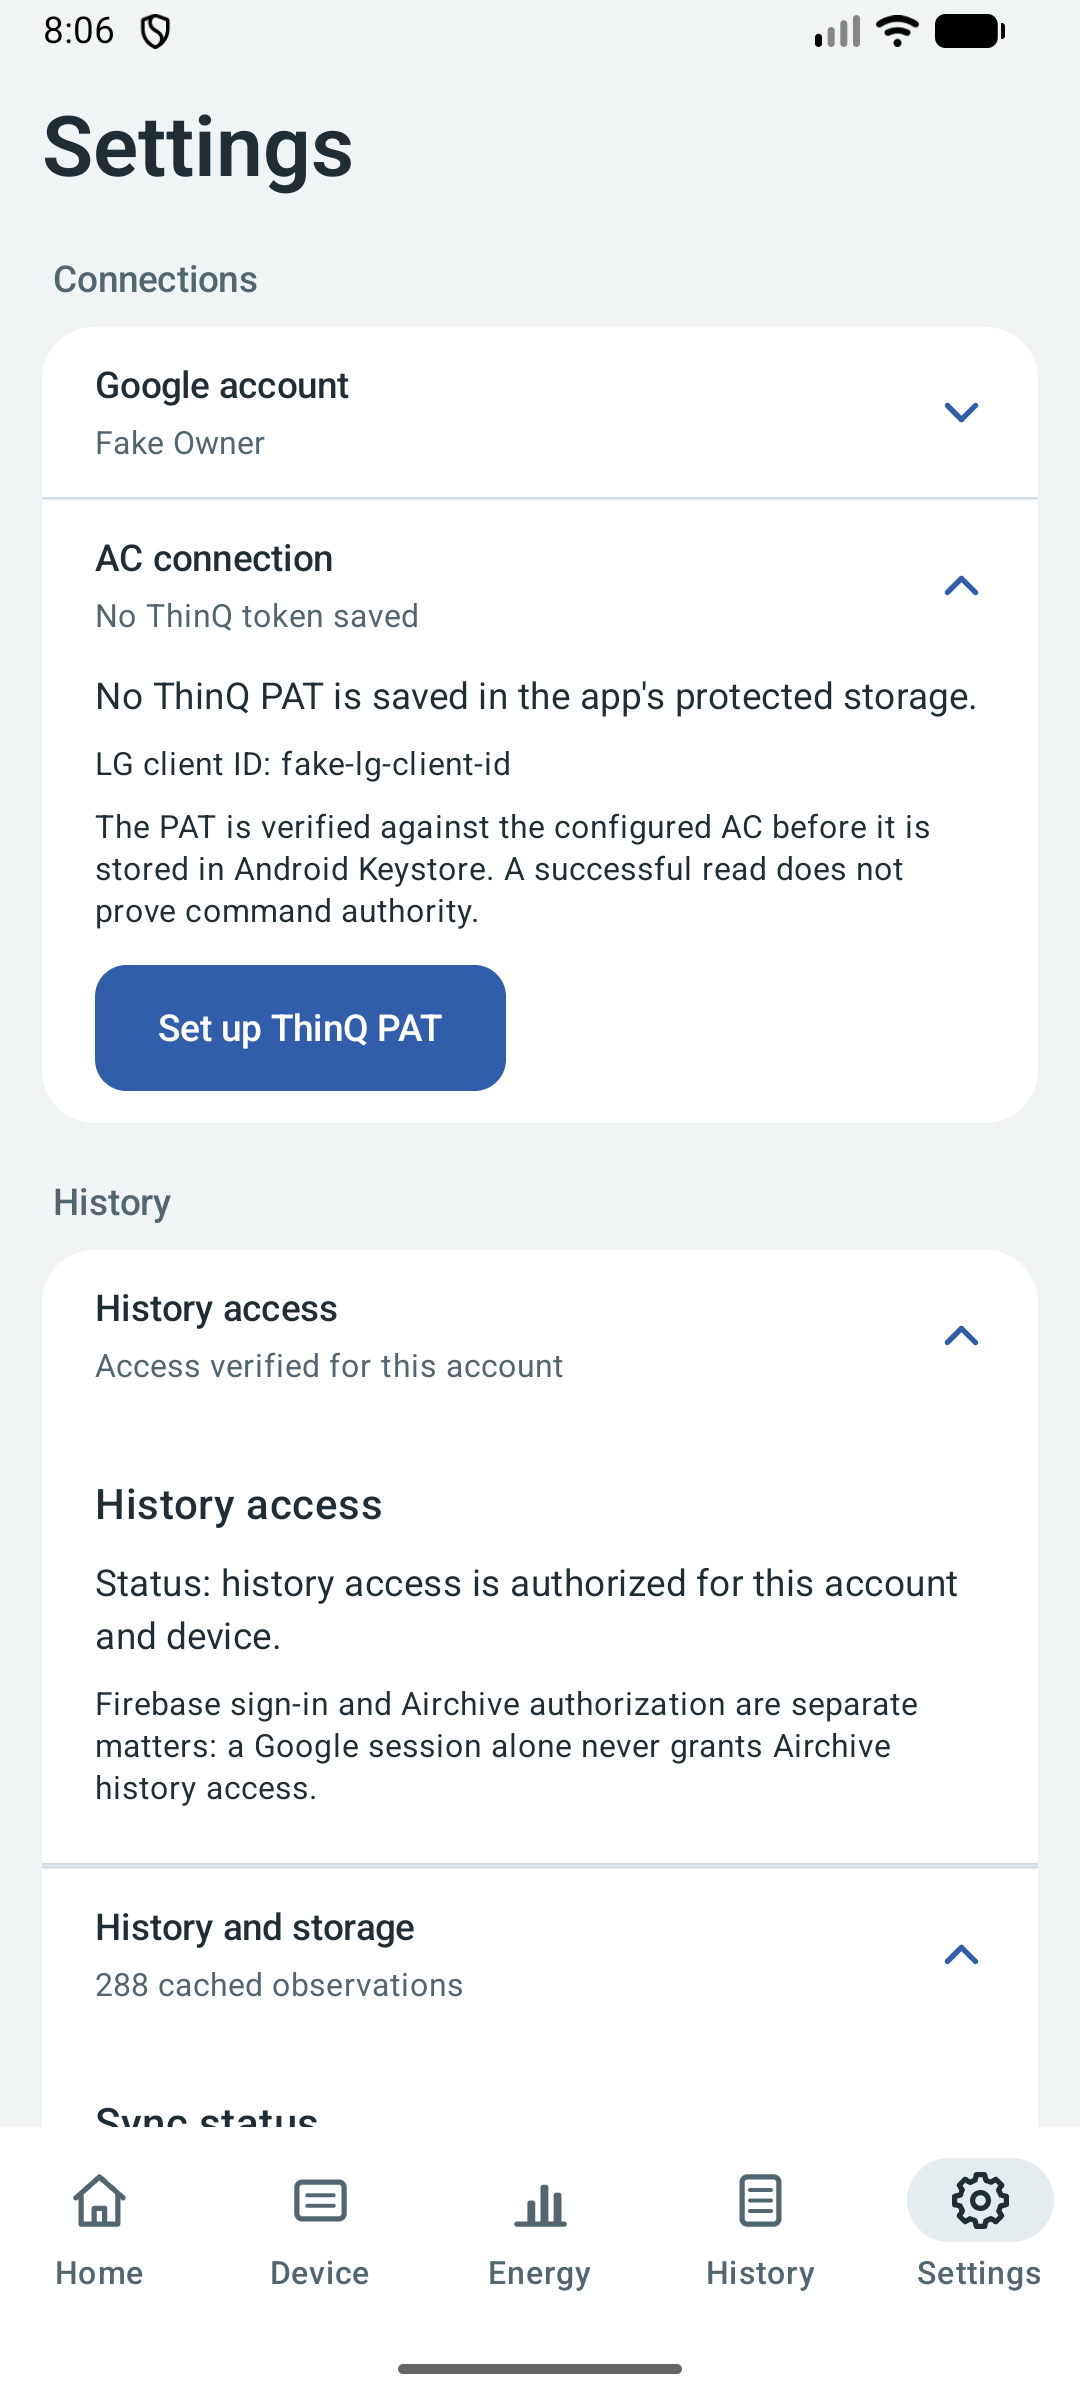
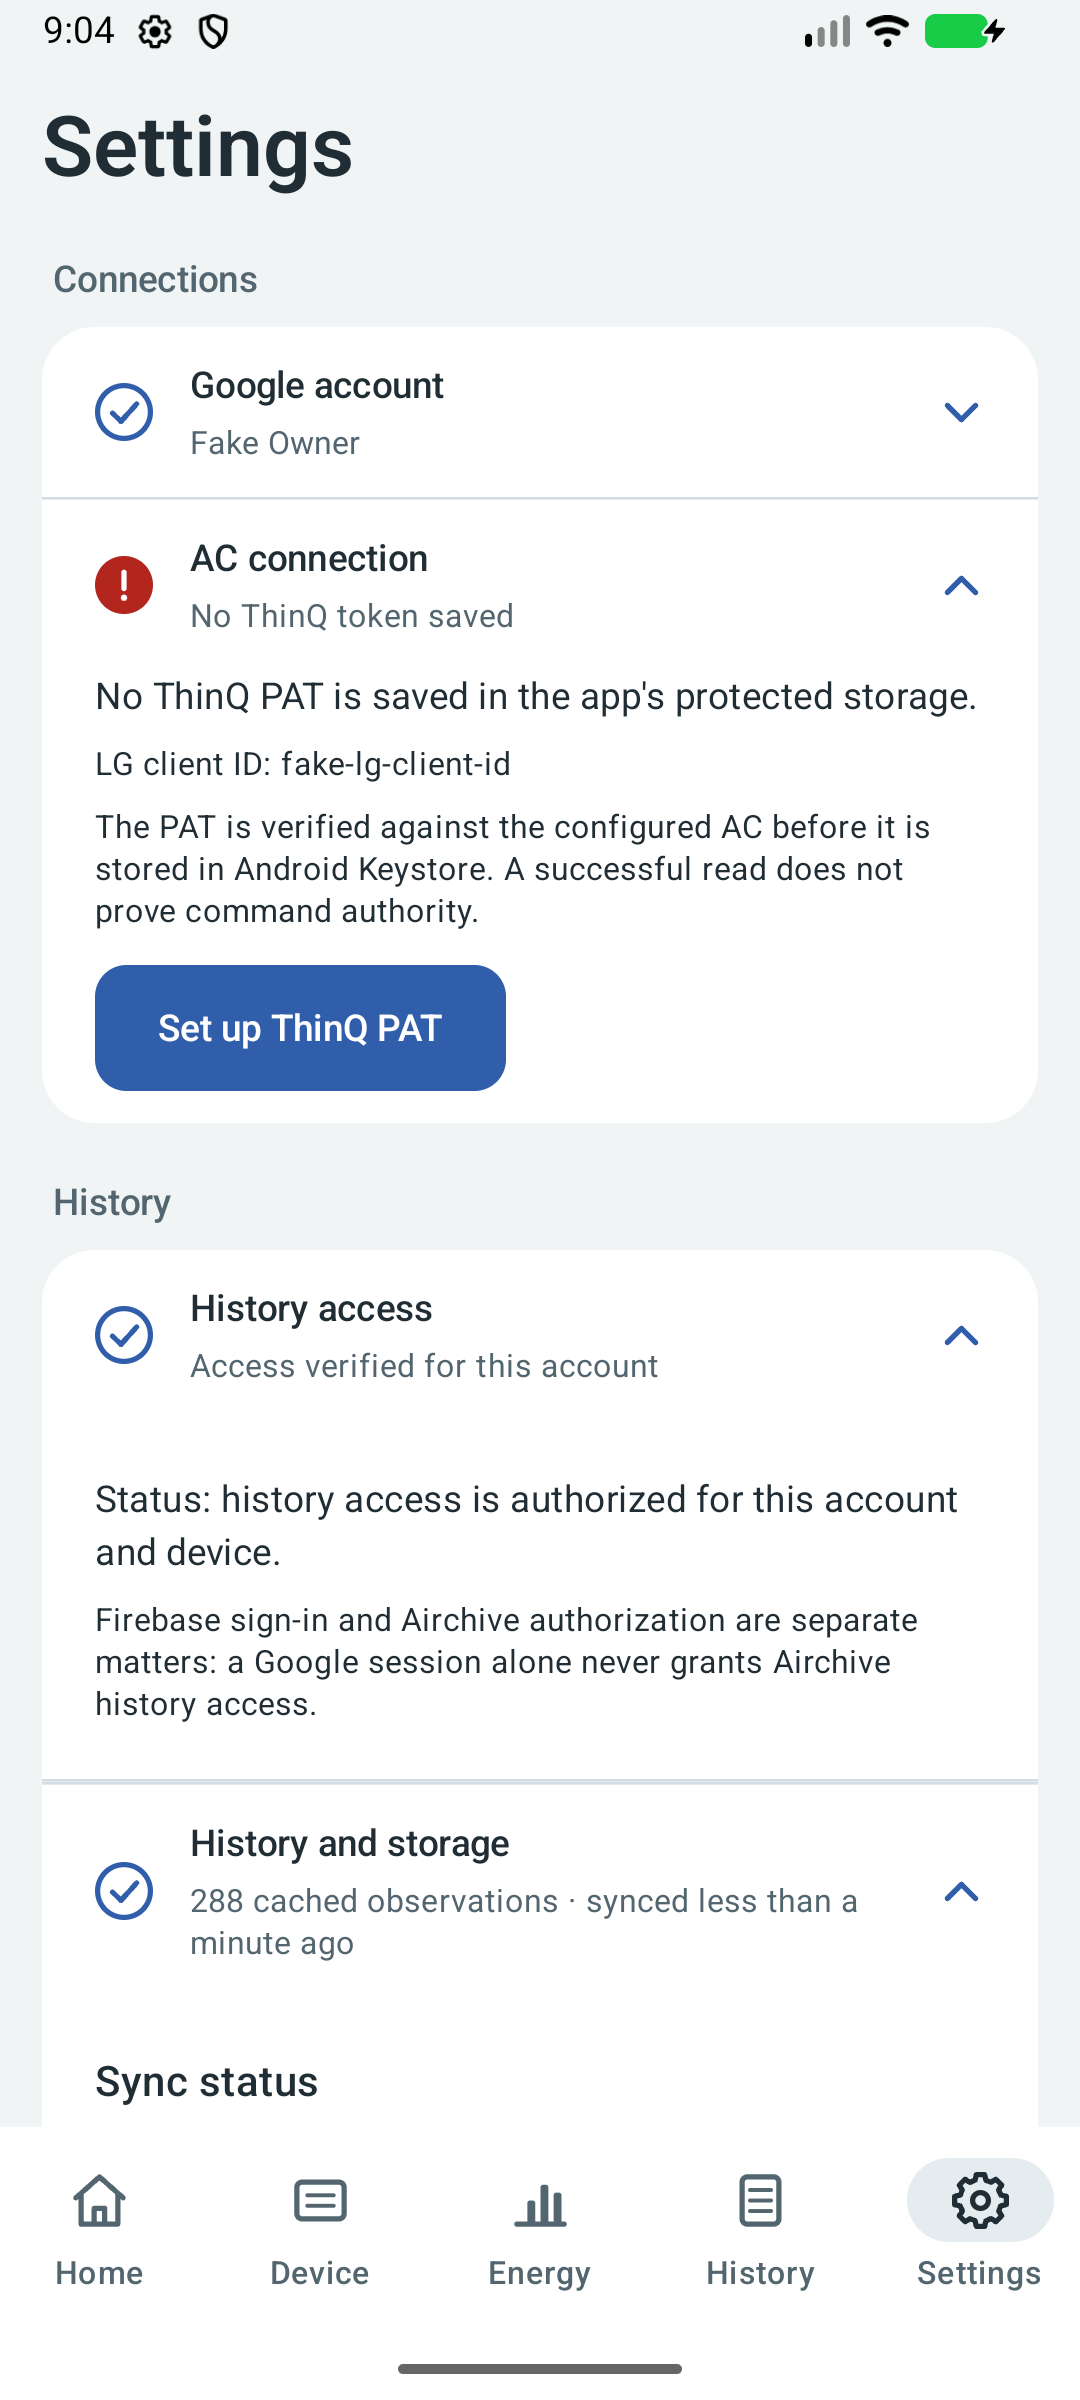
docs: (refresh settings layout notes and captures)

diff --git a/docs/verification/settings-layout/README.md b/docs/verification/settings-layout/README.md
@@ -9,19 +9,27 @@ Preferences. Account actions stay collapsed in both modes. Informational
 sections follow Simple/Detailed defaults, while credential entry, feedback,
 unlock recovery and confirmation dialogs remain independent of those sections.
 Sync timestamps appear in History rather than repeating in the account row.
+Each row leads with a status mark (check, exclamation or dash) driven by real
+account, credential, access and sync state, and History and storage states the
+cached count with the age of the last successful sync. The History access row no
+longer repeats its own title as a heading inside, and the filled button is kept
+for a missing or unreadable ThinQ token while replacing a working one is outlined.
 
 ## Validation
 
 - Android debug application and instrumentation APKs assembled successfully.
-- All 435 shared host tests passed; no failures, errors or skips.
+- All 440 shared host tests passed; no failures, errors or skips. Five of them
+  are new and cover the status and summary mapping.
 - Debug lint passed: zero errors, six existing warnings and one hint.
 - Native emulator checks passed for the grouped layout in Simple/Detailed and
-  light/dark at 1.0 and 1.3 font scales, token-form/dialog preservation across detail
-  changes without port calls, and confirmed synthetic owner sign-out.
-- One repeated token-form test timed out during fixture sign-in before opening
-  Settings; its isolated rerun passed. The full cross-route disclosure suite
-  was not completed in this pass.
-- The scoped layout detector returned no findings; `git diff --check` passed.
+  light/dark at 1.0 and 1.3 font scales, token-form/dialog preservation across
+  detail changes without port calls, account-switch and cancelled-setup draft
+  clearing, synthetic-PAT absence from diagnostics, the installation-wide
+  interface choice, and confirmed synthetic owner sign-out.
+- `productionRoutesPreserveInstrumentHierarchyAndConfiguredTruth` fails at its
+  Device-route temperature-control wait (`SharedInstrumentUiTest.kt:1391`). It
+  fails identically with this pass's Settings changes stashed, so it is not
+  attributed to them. The full cross-route disclosure suite was not completed.
 
 The native target was the `Medium_Phone_API_37.0` Android emulator. The font
 scale was restored to 1.0 after testing. These checks do not certify TalkBack,

diff --git a/DESIGN.md b/DESIGN.md
@@ -193,7 +193,7 @@ Native Material NavigationBar presents Home, Device, Energy, History and Setting
 
 ### Interface detail and disclosures
 
-Settings groups compact status rows under Connections, History and Preferences. Google account shows the active account and expands to account actions; AC connection shows credential presence and expands to protected-storage details. Status summaries remain visible in both interface modes. Credential setup/replacement, unlock recovery, active forms, feedback and confirmation dialogs sit outside resetting disclosures. History owns sync timestamps and diagnostics so the account row does not repeat sync information. Preferences contains the interface-detail selector.
+Settings groups compact status rows under Connections, History and Preferences. Google account shows the active account and expands to account actions; AC connection shows credential presence and expands to protected-storage details. Status summaries remain visible in both interface modes, and each row leads with a 22dp Canvas status mark whose shape differs by state (check in cobalt for healthy, exclamation on a filled error disc for needs-attention, dash in outline for not-applicable or signed-out); the mark is hidden from accessibility because the row's summary text states the same condition, and it never changes the row's expanded/collapsed semantics. A saved, readable ThinQ token is healthy, a missing or unreadable one needs attention, and History and storage summarizes the cached observation count with the age of the last successful sync. The filled primary button is reserved for a missing or unreadable token; replacing a working one is an outlined button. Credential setup/replacement, unlock recovery, active forms, feedback and confirmation dialogs sit outside resetting disclosures. History owns sync timestamps and diagnostics so the account row does not repeat sync information. Preferences contains the interface-detail selector.
 
 Settings exposes Simple and Detailed through 48dp-minimum native FilterChips. Simple is the default for absent or unrecognized stored values; the Android choice is an installation-wide nonsecret preference, independent of account/history/credential state. Selection changes presentation immediately and does not trigger reads or commands.
 
